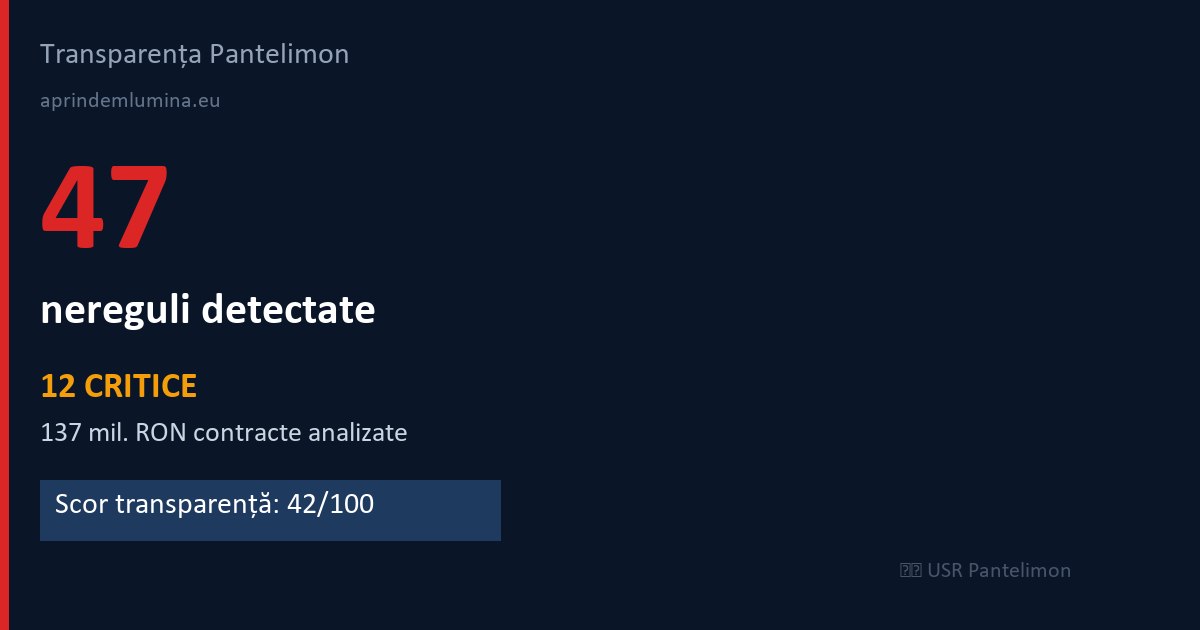
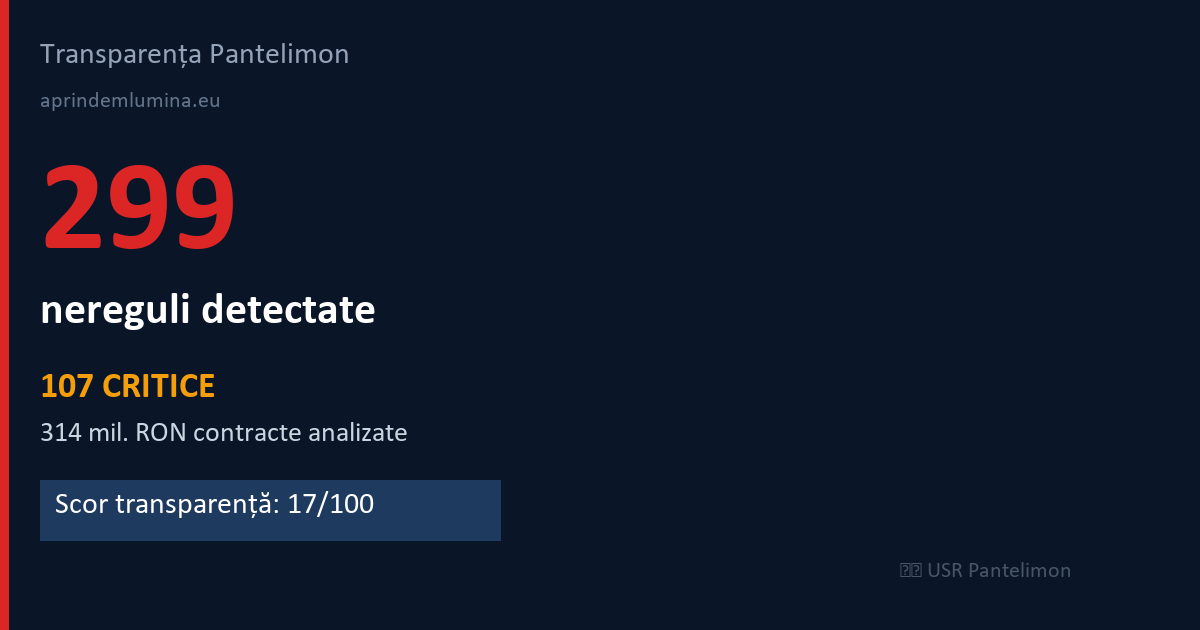
fix: chart fallback, og-image refresh, weekly CI cron
- transparenta_pantelimon.html: add .tp-chart-fallback CSS + _chartFallback()
  helper; wrap all 5 Chart.js inits in try/catch; guard against CDN failure
  with typeof Chart === 'undefined' → shows «Date indisponibile» placeholder
- og-image.png: regenerated with current stats (299 nereguli, 107 critice,
  313.68 mil. RON, scor 17) — replaces stale 47-flag/scor-42 version
- update-report.yml: change cron from monthly (1-7 * 1) to weekly (* * 1),
  add Pillow to pip deps, add geocodeaza_acum.py step, add press_kit.json /
  firme_geocoded.json / og-image.png to the auto-commit file list

diff --git a/transparenta_pantelimon.html b/transparenta_pantelimon.html
@@ -282,6 +282,22 @@
     margin-bottom: 18px;
   }
 
+  /* Fallback grafice — apare dacă Chart.js nu se încarcă sau date lipsă */
+  .tp-chart-fallback {
+    display: flex;
+    align-items: center;
+    justify-content: center;
+    min-height: 200px;
+    color: #aaa;
+    font-size: 14px;
+    font-style: italic;
+    border: 2px dashed #e5e7eb;
+    border-radius: 8px;
+    background: #f9fafb;
+    user-select: none;
+  }
+  .tp-chart-fallback svg { margin-right: 8px; opacity: .45; }
+
   .two-col {
     display: grid;
     grid-template-columns: 1fr 1fr;
@@ -2795,10 +2811,28 @@ document.addEventListener('DOMContentLoaded', function() {
     }
   } catch(e) {}
 
+  // Helper: afișează mesaj „Date indisponibile" dacă Chart.js lipsește sau aruncă eroare
+  function _chartFallback(canvas) {
+    try {
+      const fb = document.createElement('div');
+      fb.className = 'tp-chart-fallback';
+      fb.setAttribute('role', 'img');
+      fb.setAttribute('aria-label', 'Grafic indisponibil');
+      fb.innerHTML = '<svg width="20" height="20" viewBox="0 0 24 24" fill="none" stroke="currentColor" stroke-width="2"><line x1="18" y1="6" x2="6" y2="18"/><line x1="6" y1="6" x2="18" y2="18"/></svg>Date indisponibile';
+      canvas.parentNode.insertBefore(fb, canvas);
+      canvas.style.display = 'none';
+    } catch(ex) {}
+  }
+
+  // Dacă Chart.js nu a fost încărcat (CDN down etc.), afișăm fallback pentru toate canvas-urile
+  if (typeof Chart === 'undefined') {
+    document.querySelectorAll('.chart-box canvas').forEach(_chartFallback);
+  } else {
+
   // Chart 1: Buget vs Cheltuieli pe categorii
   const ctxCateg = document.getElementById('chartBugetCateg');
   if (ctxCateg) {
-    new Chart(ctxCateg, {
+    try { new Chart(ctxCateg, {
       type: 'bar',
       data: {
         labels: ['Autorități publice', 'Ordine publică', 'Învățământ', 'Sănătate', 'Cultură & Sport', 'Asistență socială', 'Servicii publice', 'Mediu', 'Transport', 'Acțiuni economice'],
@@ -2825,13 +2859,13 @@ document.addEventListener('DOMContentLoaded', function() {
         plugins: { legend: { position: 'top' } },
         scales: { y: { beginAtZero: true, title: { display: true, text: 'mil. RON' } } }
       }
-    });
+    }); } catch(e) { _chartFallback(ctxCateg); }
   }
 
   // Chart 2: Evoluție buget 2020-2025
   const ctxEvol = document.getElementById('chartEvolutie');
   if (ctxEvol) {
-    new Chart(ctxEvol, {
+    try { new Chart(ctxEvol, {
       type: 'line',
       data: {
         labels: ['2020', '2021', '2022', '2023', '2024', '2025'],
@@ -2858,13 +2892,13 @@ document.addEventListener('DOMContentLoaded', function() {
         plugins: { legend: { position: 'top' } },
         scales: { y: { beginAtZero: false, title: { display: true, text: 'mil. RON' } } }
       }
-    });
+    }); } catch(e) { _chartFallback(ctxEvol); }
   }
 
   // Chart 3: Structura cheltuieli (pie)
   const ctxPie = document.getElementById('chartPie');
   if (ctxPie) {
-    new Chart(ctxPie, {
+    try { new Chart(ctxPie, {
       type: 'doughnut',
       data: {
         labels: ['Autorități publice', 'Ordine publică', 'Învățământ', 'Sănătate', 'Cultură & Sport', 'Asistență socială', 'Servicii & Transport', 'Altele'],
@@ -2884,13 +2918,13 @@ document.addEventListener('DOMContentLoaded', function() {
           tooltip: { callbacks: { label: ctx => ctx.label + ': ' + ctx.parsed + ' mil. RON' } }
         }
       }
-    });
+    }); } catch(e) { _chartFallback(ctxPie); }
   }
 
   // Chart 4: Distribuție proceduri achiziții
   const ctxProc = document.getElementById('chartProceduri');
   if (ctxProc) {
-    new Chart(ctxProc, {
+    try { new Chart(ctxProc, {
       type: 'bar',
       data: {
         labels: ['Cumpărare directă', 'Licitație deschisă', 'Procedură simplificată', 'Negociere fără publicare', 'Altele'],
@@ -2910,7 +2944,7 @@ document.addEventListener('DOMContentLoaded', function() {
         },
         scales: { y: { beginAtZero: true, title: { display: true, text: 'Nr. contracte' } } }
       }
-    });
+    }); } catch(e) { _chartFallback(ctxProc); }
   }
 
   _loadContracte();
@@ -2918,7 +2952,7 @@ document.addEventListener('DOMContentLoaded', function() {
   // Chart Lunar distribution
   const ctxLunar = document.getElementById('chartLunar');
   if (ctxLunar) {
-    new Chart(ctxLunar, {
+    try { new Chart(ctxLunar, {
       type: 'bar',
       data: {
         labels: ['Sep 23','Dec 24','Ian 25','Feb 25','Mar 25','Apr 25','Mai 25','Iun 25','Iul 25','Aug 25','Sep 25','Oct 25','Nov 25','Dec 25','Ian 26','Feb 26','Mar 26'],
@@ -2944,8 +2978,10 @@ document.addEventListener('DOMContentLoaded', function() {
         },
         scales: { y: { beginAtZero: true, title: { display: true, text: 'Nr. contracte' } } }
       }
-    });
+    }); } catch(e) { _chartFallback(ctxLunar); }
   }
+
+  } // end if (typeof Chart !== 'undefined')
 
 });
 </script>
